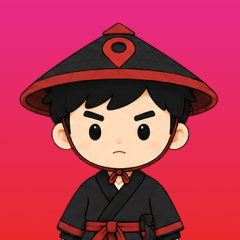
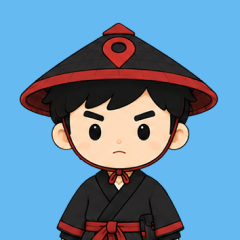
내 후기 빈 상태 중앙정렬 + 로그인후 디폴트 프로필 이미지 교체/캐시버스팅
- 커뮤니티 빈 상태(.cm-empty)가 리스트 컨테이너(grid rv-cards / multicol cm-sc-list)의
  한 칸에 갇혀 좌측 치우치던 것 → grid-column:1/-1 + column-span:all 로 전체 폭 span, 중앙정렬
- 로그인후 디폴트 프로필 이미지(img_profile_login.png) 교체(240px). 파일명 동일 캐시 방지 위해
  참조 7곳(index.html 4 + app.js 3)에 ?v=2 캐시버스팅
- style v=238, app v=219

diff --git a/index.html b/index.html
@@ -25,7 +25,7 @@
   <link rel="apple-touch-icon" href="image/favicon-180.png">
   <link rel="manifest" href="site.webmanifest">
   <meta name="theme-color" content="#F51122">
-  <link rel="stylesheet" href="style.css?v=237">
+  <link rel="stylesheet" href="style.css?v=238">
   <link rel="preconnect" href="https://cdn.jsdelivr.net">
   <link rel="stylesheet" href="https://cdn.jsdelivr.net/gh/orioncactus/pretendard@v1.3.9/dist/web/static/pretendard.min.css">
   <script>
@@ -131,7 +131,7 @@
       <!-- 로그인 후 -->
       <div class="pc-nav-my-user" id="pcNavMyUser" style="display:none">
         <button class="pc-nav-my" onclick="switchPcTab('myinfo')" aria-label="내 정보">
-          <span class="pc-nav-my-avatar"><img src="image/img_profile_login.png" alt="" width="32" height="32"></span>
+          <span class="pc-nav-my-avatar"><img src="image/img_profile_login.png?v=2" alt="" width="32" height="32"></span>
           <span class="pc-nav-my-name" id="pcNavMyName"></span>
         </button>
         <button class="pc-nav-my-btn" id="pcNavMyLogout" onclick="logout()">로그아웃</button>
@@ -252,7 +252,7 @@
         <div id="profileLoggedIn">
         <div class="form-group profile-photo-group">
           <button type="button" class="profile-avatar-edit" onclick="pickProfilePhoto()" aria-label="프로필 사진 변경">
-            <span class="profile-avatar"><img id="profilePhotoImg" src="image/img_profile_login.png" alt="" width="80" height="80"></span>
+            <span class="profile-avatar"><img id="profilePhotoImg" src="image/img_profile_login.png?v=2" alt="" width="80" height="80"></span>
             <span class="profile-avatar-cam"><img src="image/ic_camera_badge_28.svg" width="28" height="28" alt=""></span>
           </button>
           <p class="profile-nickname" id="profileNickname"></p>
@@ -1162,7 +1162,7 @@
   </div>
   <!-- MY 탭 (Figma 1728-44131). 로그인 후 화면. 로그인 전 화면은 디자인 확정 후 교체 예정(현재 임시 CTA). -->
   <div class="tab-view mypage" id="tabView-my" hidden>
-    <div class="modal-sticky-header mypage-sticky" id="myStickyHeader"><span>MY</span><img class="mypage-sticky-avatar" id="myStickyAvatar" src="image/img_profile_login.png" alt="" width="32" height="32"></div>
+    <div class="modal-sticky-header mypage-sticky" id="myStickyHeader"><span>MY</span><img class="mypage-sticky-avatar" id="myStickyAvatar" src="image/img_profile_login.png?v=2" alt="" width="32" height="32"></div>
     <div class="mypage-scroll" id="myScroll">
       <div class="mypage-top">
         <div class="mypage-header" id="myScrollHeader">
@@ -1173,7 +1173,7 @@
         <div class="mypage-account">
           <div class="mypage-profile">
             <button type="button" class="mypage-avatar-edit" onclick="pickMyPagePhoto()" aria-label="프로필 사진 변경">
-              <span class="mypage-avatar"><img id="myAvatarImg" src="image/img_profile_login.png" alt="" width="64" height="64"></span>
+              <span class="mypage-avatar"><img id="myAvatarImg" src="image/img_profile_login.png?v=2" alt="" width="64" height="64"></span>
               <span class="mypage-avatar-cam" id="myAvatarCam"><img src="image/ic_camera_badge_28.svg" width="24" height="24" alt=""></span>
             </button>
             <div class="mypage-profile-text">
@@ -1400,7 +1400,7 @@
   </div>
 
   <script src="https://cdnjs.cloudflare.com/ajax/libs/bodymovin/5.12.2/lottie.min.js"></script>
-  <script src="app.js?v=218"></script>
+  <script src="app.js?v=219"></script>
   <script defer src="/_vercel/insights/script.js"></script>
 </body>
 </html>

diff --git a/app.js b/app.js
@@ -3257,7 +3257,7 @@ async function submitSeoichu() {
 // 이웃찾기 글 카드: 아바타 · 닉/시간 · SNS 링크 / 내용 + 방문하기 CTA (블로그·인스타 공통).
 function seoichuPostHtml(p) {
   const full = snsFullUrl(p.urlPlatform, p.urlId);
-  const avatar = p.profileImage || 'image/img_profile_login.png';
+  const avatar = p.profileImage || 'image/img_profile_login.png?v=2';
   const mine = !!(currentUser && currentUser.id != null && p.userId === currentUser.id);  // 내 글만 삭제버튼
   const trashBtn = mine
     ? `<button class="cm-sc-trash" onclick="deleteSeoichu(${p.id})" aria-label="삭제"><img src="image/ic_trash_16_gray.svg" width="16" height="16" alt=""></button>`
@@ -3312,7 +3312,7 @@ function renderMyPage() {
   if (logoutBtn) logoutBtn.style.display = loggedIn ? '' : 'none';
   const avatar = document.getElementById('myAvatarImg');
   const stickyAvatar = document.getElementById('myStickyAvatar');
-  const avatarSrc = loggedIn ? (currentUser.profileImage || 'image/img_profile_login.png') : 'image/img_profile_logout.png';
+  const avatarSrc = loggedIn ? (currentUser.profileImage || 'image/img_profile_login.png?v=2') : 'image/img_profile_logout.png';
   if (stickyAvatar) stickyAvatar.src = avatarSrc;
   show('myAvatarCam', loggedIn);  // 카메라 배지는 로그인 시만(클릭=사진 변경)
   if (loggedIn) {
@@ -4439,7 +4439,7 @@ function populateProfileFields() {
   // 프로필 사진 미리보기 초기화(변경 전 상태)
   _pendingProfileImage = undefined;
   const pimg = document.getElementById('profilePhotoImg');
-  if (pimg) pimg.src = currentUser.profileImage || 'image/img_profile_login.png';
+  if (pimg) pimg.src = currentUser.profileImage || 'image/img_profile_login.png?v=2';
   const pnick = document.getElementById('profileNickname');
   if (pnick) pnick.textContent = currentUser.nickname || '';
   const pinput = document.getElementById('profilePhotoInput');

diff --git a/style.css b/style.css
@@ -3634,6 +3634,8 @@ body.pc-community-mode .cm-infinite.loading { height: 48px; display: flex; align
 body.pc-community-mode .cm-infinite.loading::after { content: ''; width: 20px; height: 20px; border: 2px solid #e5e5e5; border-top-color: #999; border-radius: 50%; animation: cm-spin-pc 0.7s linear infinite; }
 /* 빈 상태 */
 body.pc-community-mode .cm-empty { display: flex; flex-direction: column; align-items: center; gap: 8px; text-align: center; padding: 56px 24px; }
+/* 빈 상태가 리스트 컨테이너(grid=rv-cards / multicol=cm-sc-list)의 한 칸에 갇히지 않고 전체 폭 span → 중앙정렬 */
+body.pc-community-mode #cmBody .cm-empty { grid-column: 1 / -1; column-span: all; width: 100%; }
 body.pc-community-mode .cm-empty-title { margin: 0; font-size: 16px; font-weight: 700; color: #333; }
 body.pc-community-mode .cm-empty-desc { margin: 0; font-size: 13px; color: #999; line-height: 1.5; }
 body.pc-community-mode .cm-empty-btn { margin-top: 8px; padding: 10px 20px; border-radius: 8px; border: 0; background: #F51122; color: #fff; font-size: 14px; font-weight: 700; cursor: pointer; }
